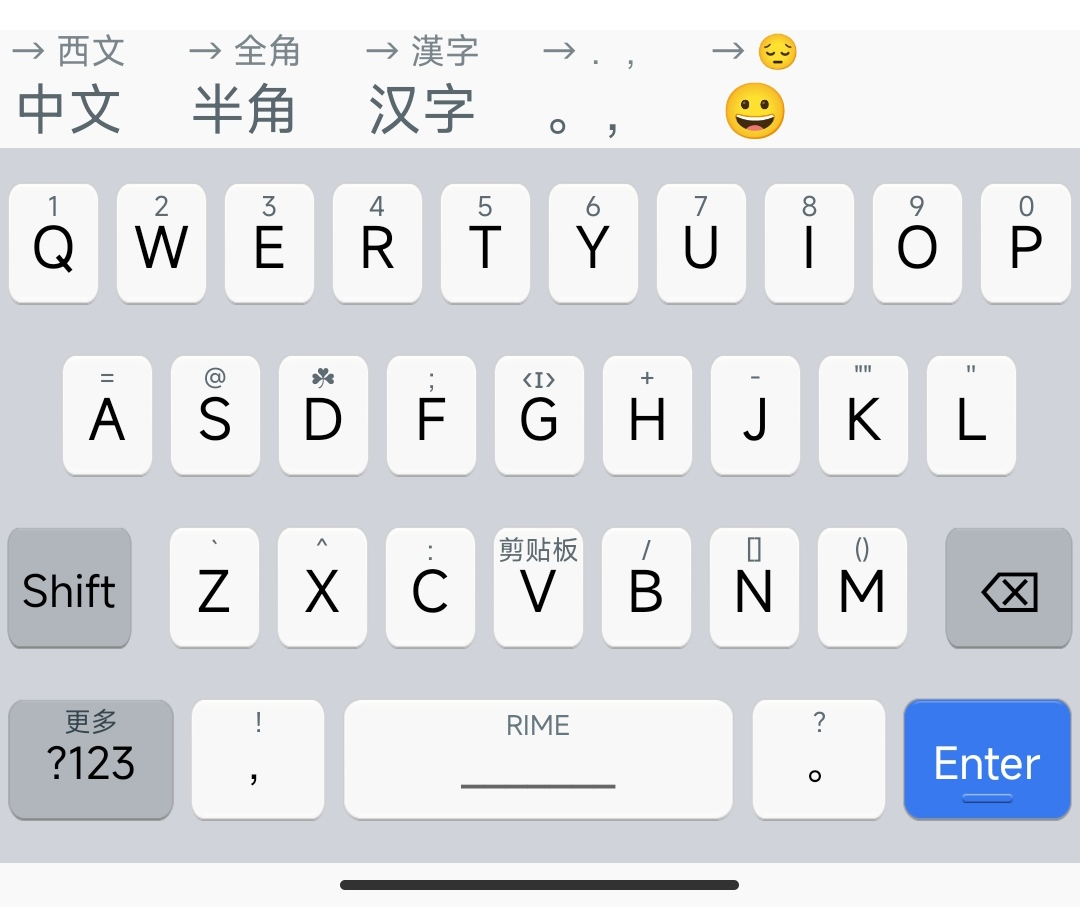
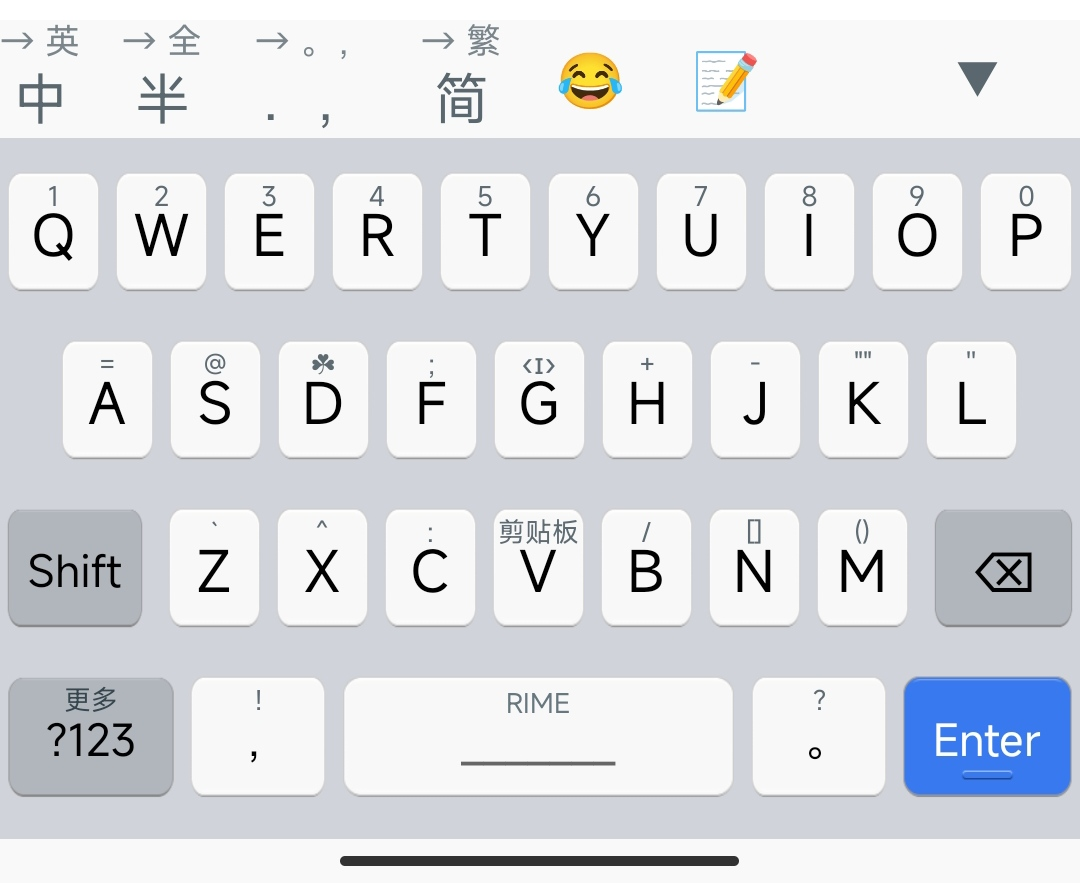
添加表情、剪贴板、收起键盘三个按钮到候选栏,可在输入方案中switches处调整收起按钮位置,不想要也可注销

diff --git a/README.md b/README.md
@@ -14,9 +14,10 @@
 > * 液态键盘, 长按 ?123 键进入, 特别地, 下滑进入菜单设置  
 > * 编辑功能, 长按G键进入  
 > * 输入上次输入内容, 长按空格键  
+> * 有候选项时 ，和。键分别为上下翻页按钮  
 > * 打开默认浏览器搜索光标前内容, Enter键上滑  
 > * 复制、粘贴、剪切、清屏、清码、复制全部、删除全部、删除行、撤销前面动作等  
-> * 各按键上下左右滑长按等自行发掘  
+> * 各按键上下左右滑长按等自行发掘    
 
 ---
 
